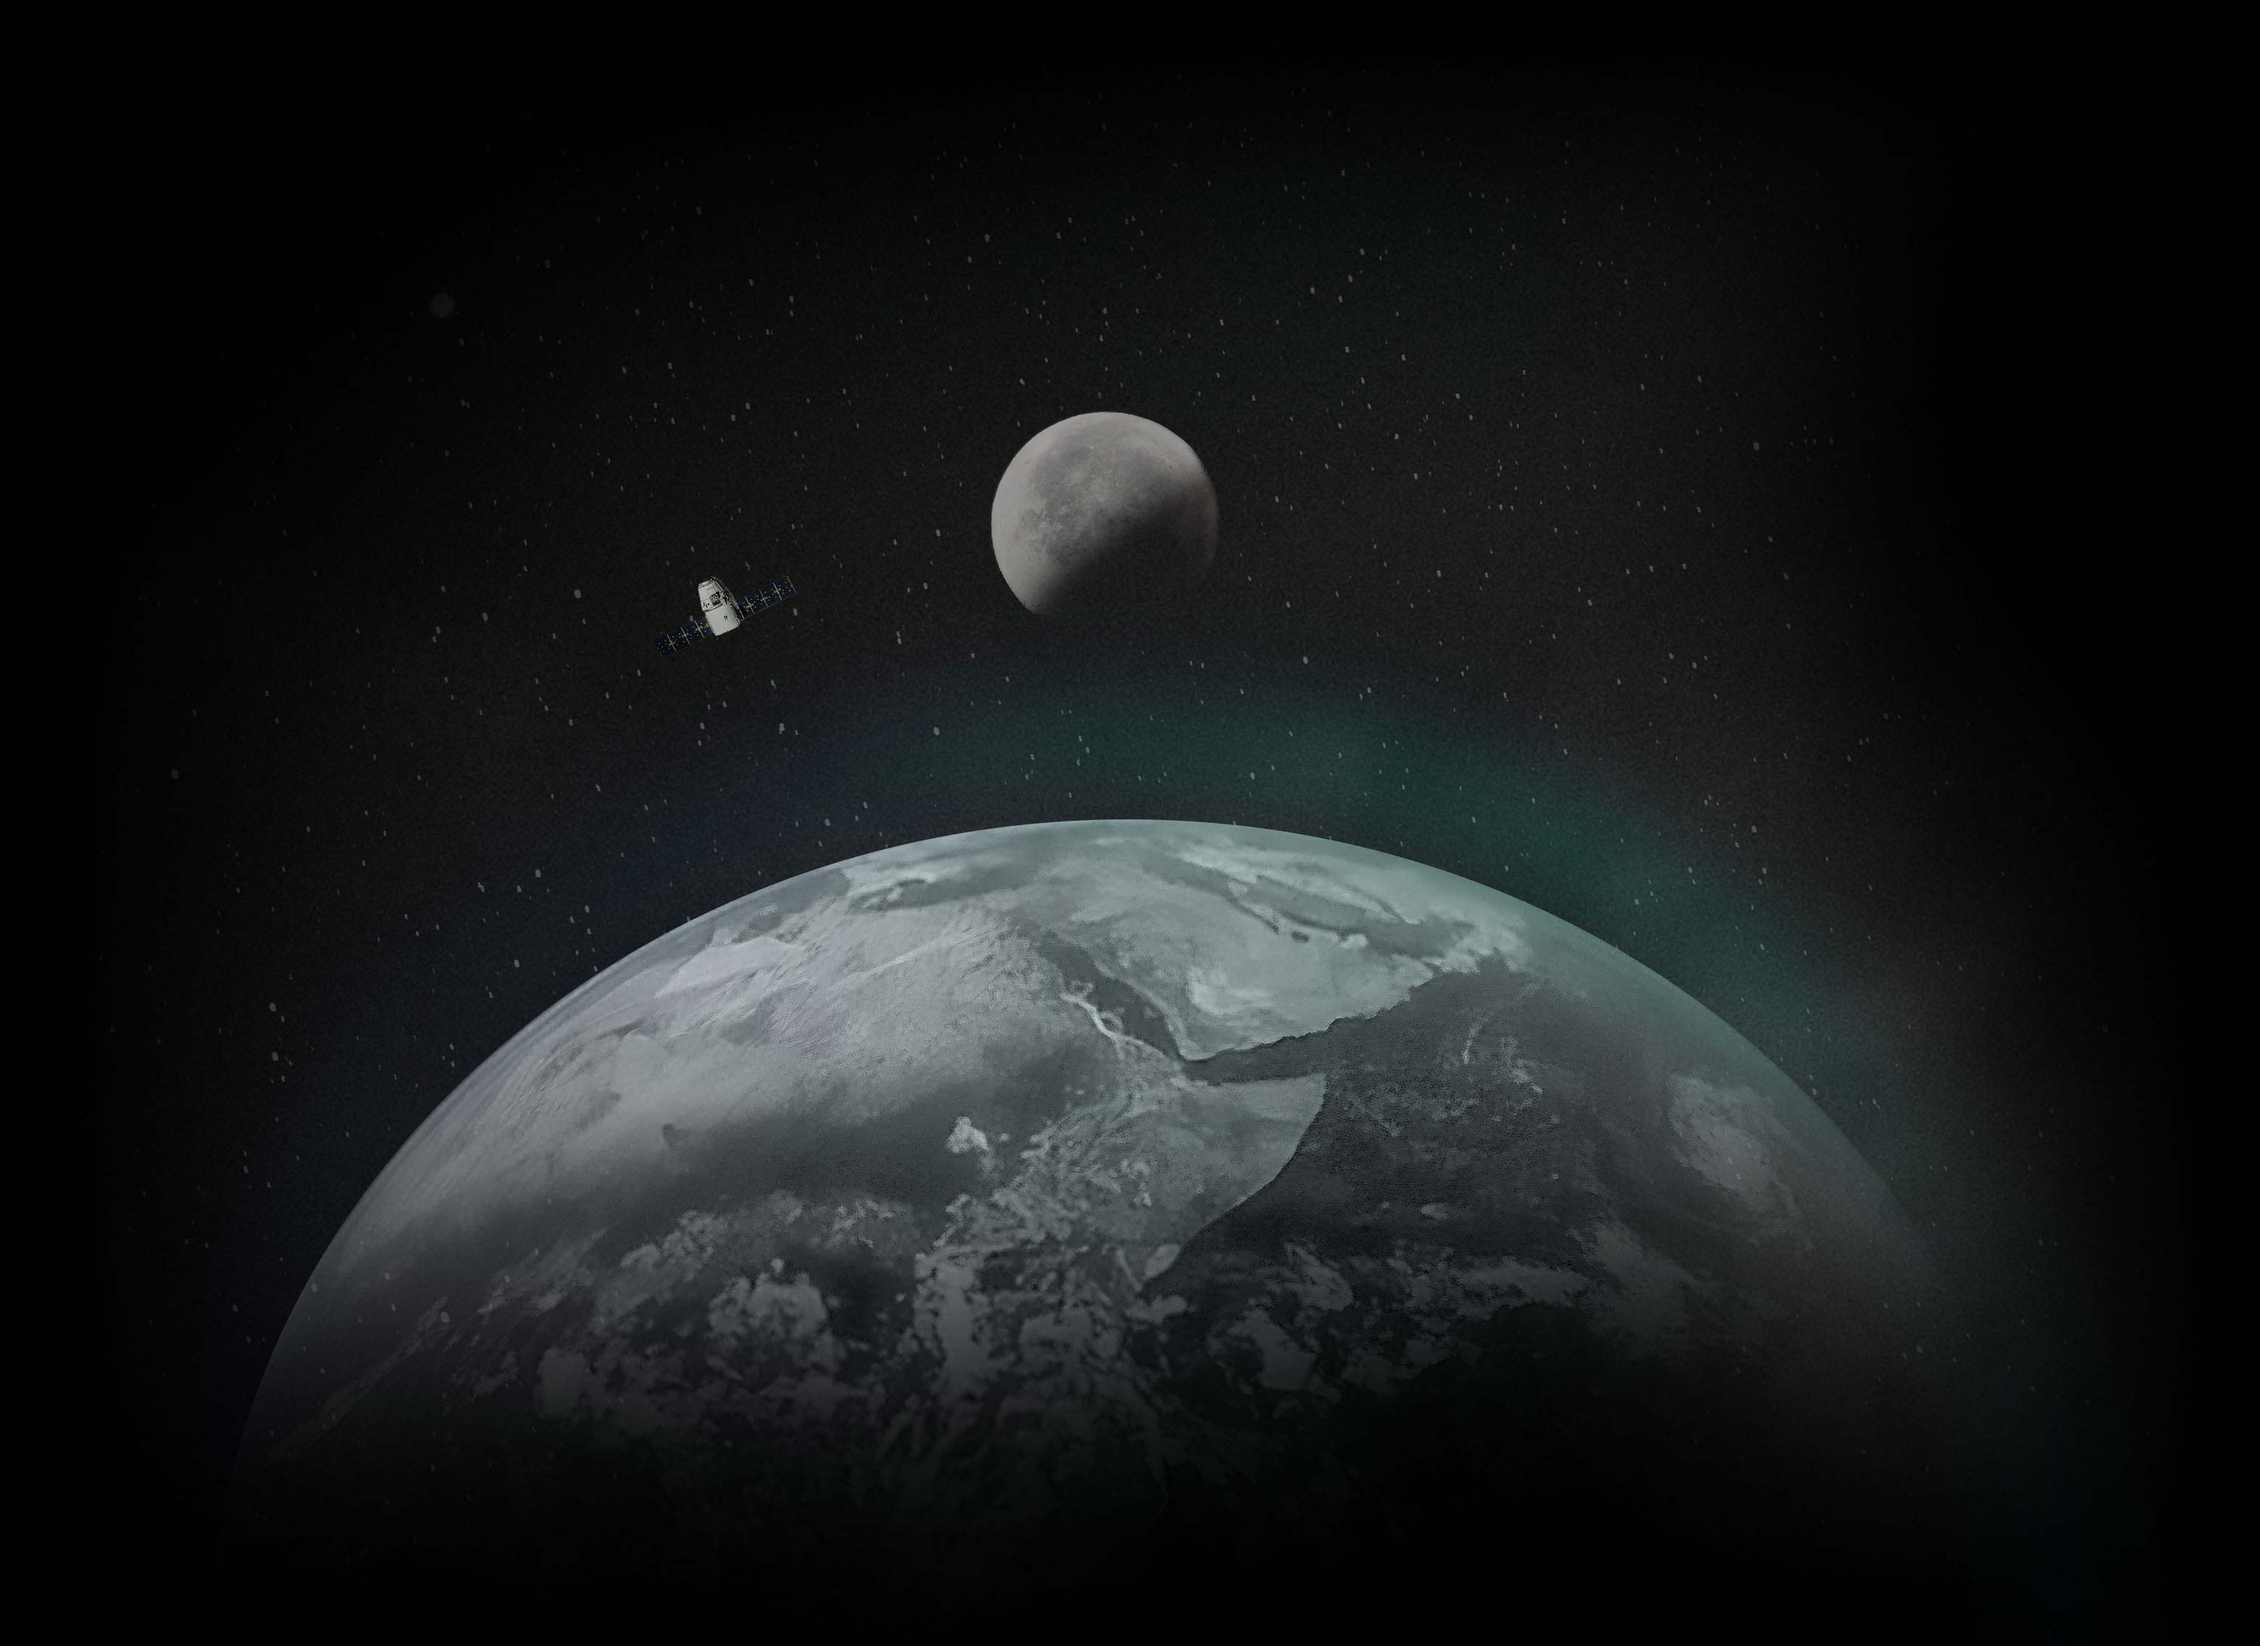
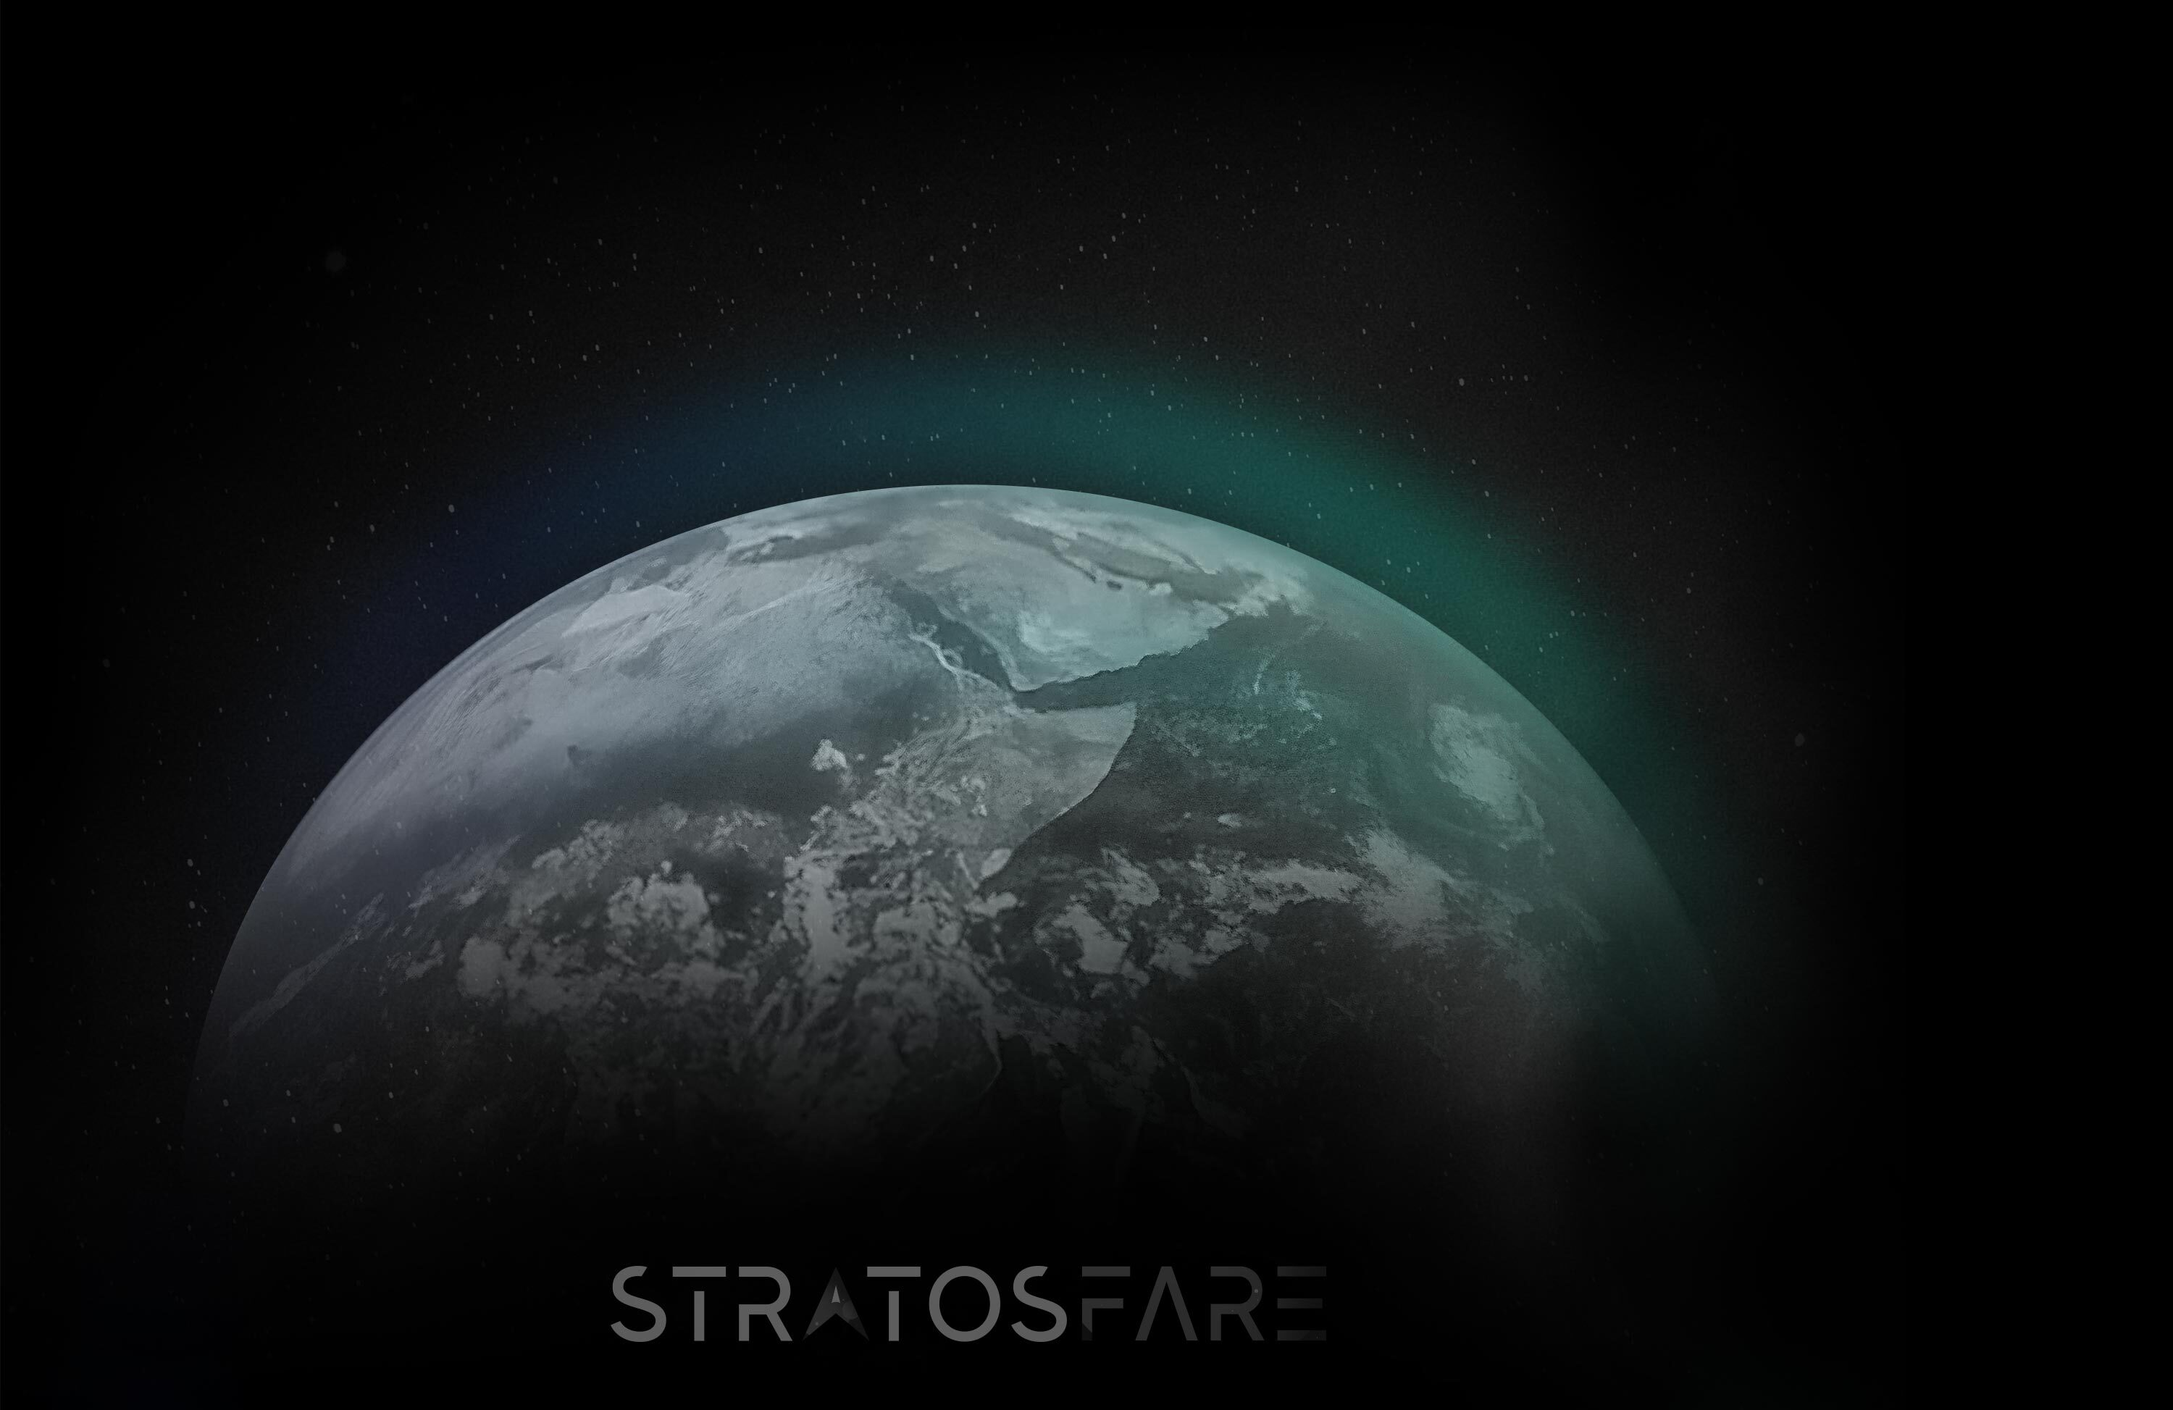
image change

Changed region(s): [[0.093, 0.2465, 0.899, 0.9553]]

diff --git a/components/Hero.vue b/components/Hero.vue
@@ -15,12 +15,20 @@
         "
       >
         <img
-          class="w-full absolute my-auto"
+          class="w-full absolute left-4 -top-8 my-auto"
           src="/images/hero-transparent.jpg"
           alt="Hero Image"
         />
         <img
-          class="w-full opacity-0 absolute my-auto animate-pulse-slow"
+          class="
+            w-full
+            opacity-0
+            absolute
+            left-4
+            -top-8
+            my-auto
+            animate-pulse-slow
+          "
           src="/images/hero.jpg"
           alt="Hero Image"
         />
